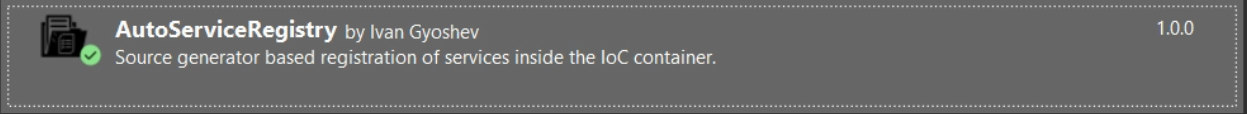
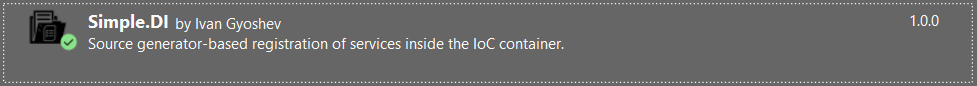
Updates the README documentation

Changed region(s): [[0.0, 0.0, 1.0, 1.0], [0.0, 0.1163, 0.5834, 0.6047], [0.0, 0.5349, 0.0307, 0.5581]]

diff --git a/src/Simple.DI.Generator/DiagnosticLogger.cs b/src/Simple.DI.Generator/DiagnosticLogger.cs
@@ -22,7 +22,7 @@ internal sealed class DiagnosticLogger : ILogger
             id: "SG0002",
             title: "Source Generator Error",
             messageFormat: message,
-            category: "AutoRegistrySourceGenerator",
+            category: "Simple.DI.Generator",
             DiagnosticSeverity.Error,
             isEnabledByDefault: true);
 

diff --git a/README.md b/README.md
@@ -1,8 +1,8 @@
-# AutoServiceRegistry
+# Simple.DI
 
-AutoServiceRegistry is a tool powered by the .NET [Source Generator](doc:https://learn.microsoft.com/en-us/dotnet/csharp/roslyn-sdk/source-generators-overview), designed to automate the registration of services into the Inversion of Control (IoC) container in .NET applications. This tool significantly simplifies dependency injection setup, reducing boilerplate code and enhancing maintainability and readability.
+<b>Simple.DI</b> is a tool powered by the .NET [Source Generator](doc:https://learn.microsoft.com/en-us/dotnet/csharp/roslyn-sdk/source-generators-overview). It is designed to automate the registration of services into the Inversion of Control (IoC) container in .NET applications. This tool significantly simplifies dependency injection setup, reducing boilerplate code and enhancing maintainability and readability.
 
-The useful part of this tool is that you can easily understand how each service in your application is registered by just looking at the attribute of the given service.
+The useful part of this tool is that you can easily understand how each service in your application is registered by just looking at the attribute located right inside the given service.
 
 The registration code is not hidden, so you don't need to worry about how it is happening. It is just auto-generated and placed in an appropriate file which you can access at any time.
 
@@ -16,10 +16,10 @@ The registration code is not hidden, so you don't need to worry about how it is 
 ## Usage
 ### Installation
 
-Add the AutoServiceRegistry package to your project using the .NET CLI:
+Add the Simple.DI package to your project using the .NET CLI:
 
 ``` sh
-dotnet add package AutoServiceRegistry
+dotnet add package Simple.DI
 ```
 Or via the NuGet Package Manager in Visual Studio.
 
@@ -28,11 +28,11 @@ Or via the NuGet Package Manager in Visual Studio.
 ### Code example
 For the code example we are going to use a simple Worker Service.
 
-1. To use the automatic service registration, you should invoke the `.UseAutoServiceRegistration()` extension method to your <b>IServiceCollection</b>.
+1. To use the automatic service registration, you should invoke the `.RegisterResolvableServices()` extension method to your <b>IServiceCollection</b>.
 
     #### Program.cs
     ``` csharp
-    using AutoServiceRegistry;
+    using Simple.DI;
     using Microsoft.Extensions.DependencyInjection;
     using Microsoft.Extensions.Hosting;
 
@@ -44,7 +44,7 @@ For the code example we are going to use a simple Worker Service.
         {
             var builder = Host.CreateApplicationBuilder(args);
             builder.Services.AddHostedService<Worker>();
-            builder.Services.UseAutoServiceRegistration();   // <----------
+            builder.Services.RegisterResolvableServices();   // <----------
 
             var host = builder.Build();
             host.Run();
@@ -56,19 +56,50 @@ For the code example we are going to use a simple Worker Service.
 
 -   Service that does not implement any interface
     ``` csharp
-    [ServiceRegistration(Lifetime.Transient)]
-    public class TransientAttributeTarget
+    namespace Demo
     {
+        [Service(Lifetime.Scoped)]
+        public class ScopedAttributeTarget
+        {
+
+        }
     }
     ```
 - Service that implements an interface
     ``` csharp
-    [ServiceRegistration(Lifetime.Transient, nameof(ITransientTarget))]
-    public class TransientAttributeTargetImplementation : ITransientTarget
+    using Contracts;
+    
+    namespace Demo;
+
+    [Service(Lifetime.Transient, nameof(ITransientTarget))]
+    public class TransientAttributeTarget : ITransientTarget
     {
         public bool ReturnTrue()
         {
             return true;
+        }
+    }   
+    ```
+
+- As a result the following file is created:
+
+    ``` csharp
+    // <auto-generated />
+    // IMPORTANT: This class is auto-generated!
+
+    using Microsoft.Extensions.DependencyInjection;
+
+    namespace Simple.DI
+    {
+        public static class ServiceRegistrator
+        {
+            public static IServiceCollection RegisterResolvableServices(this IServiceCollection services)
+            {
+    			services.Add(new ServiceDescriptor(typeof(Demo.ScopedAttributeTarget), typeof(Demo.ScopedAttributeTarget), ServiceLifetime.Scoped));
+    			services.Add(new ServiceDescriptor(typeof(Contracts.ITransientTarget), typeof(Demo.TransientAttributeTarget), ServiceLifetime.Transient));
+
+                return services;
+            }
         }
     }
     ```
@@ -85,4 +116,4 @@ Follows the <b>ServiceLifetime</b> enum that comes from the [Microsoft DI packag
 This project is licensed under the MIT License - see the [LICENSE.md](LICENSE) file for details
 
 ## Afterword 
-By automating service registration, <b>AutoServiceRegistry</b> streamlines the development process, ensuring clean, and readable code. Embrace the power of source generators and simplify your dependency injection setup.
+By automating service registration, <b>Simple.DI</b> streamlines the development process, ensuring clean, and readable code. Embrace the power of source generators and simplify your dependency injection setup.
